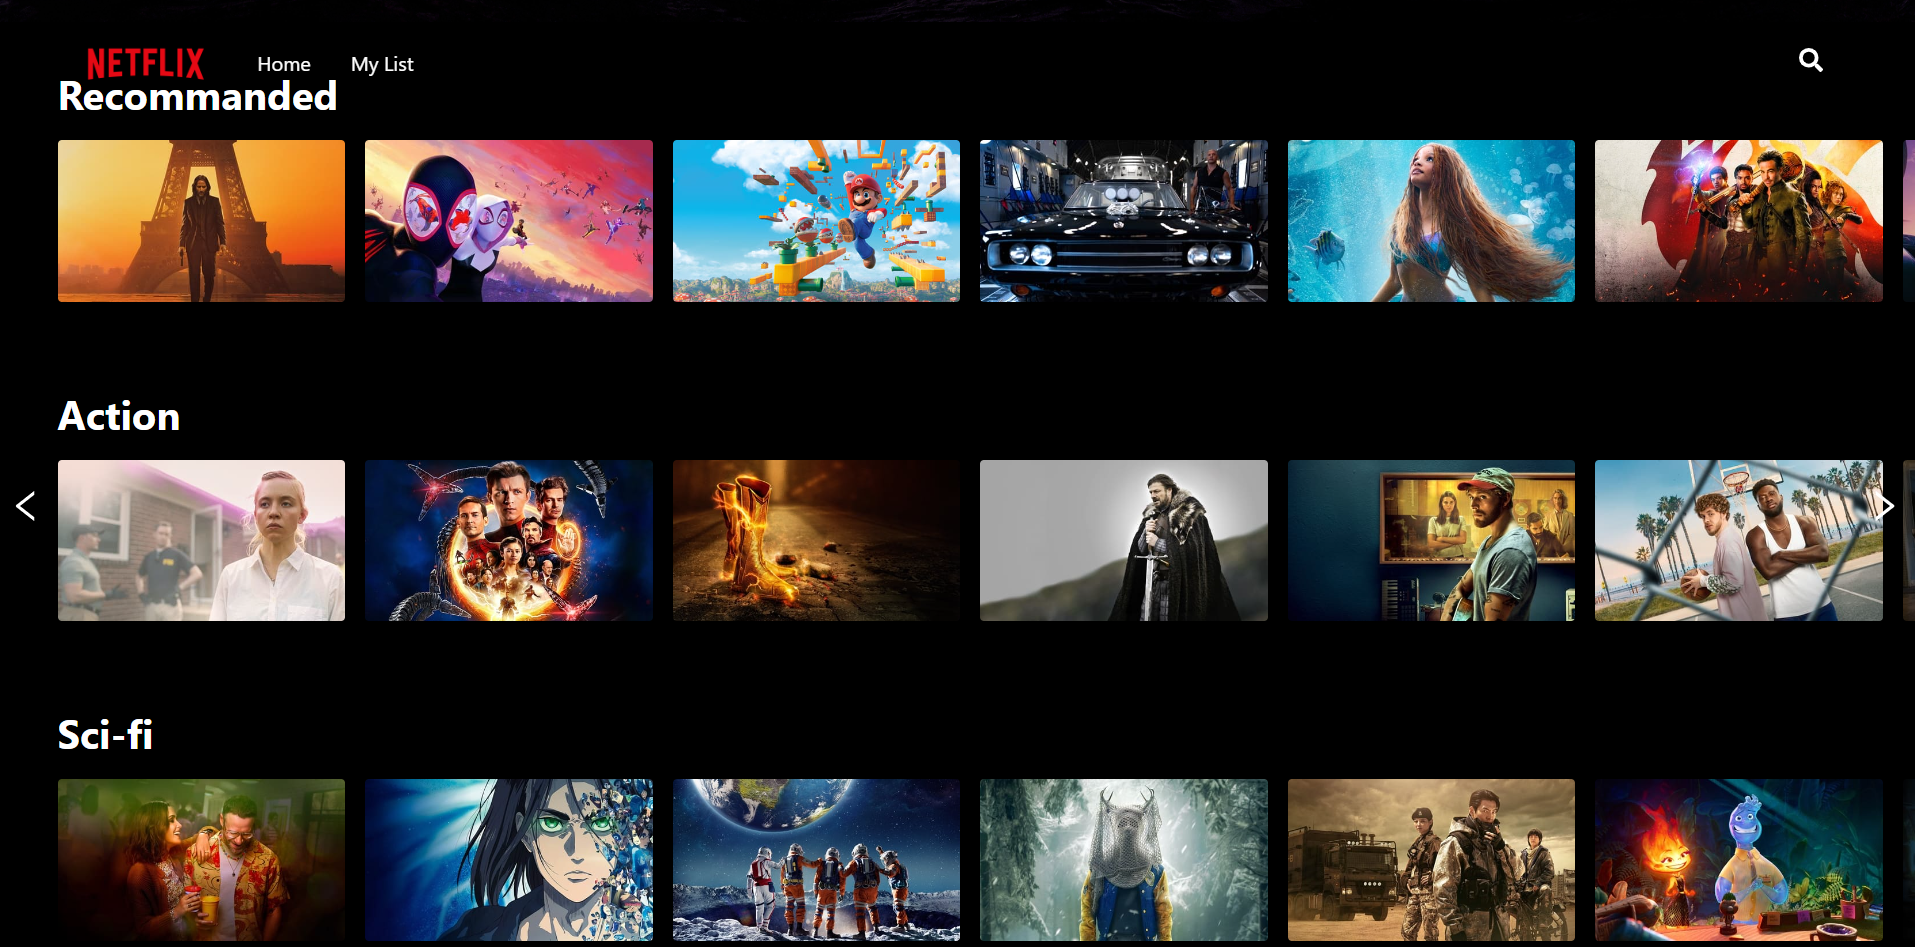
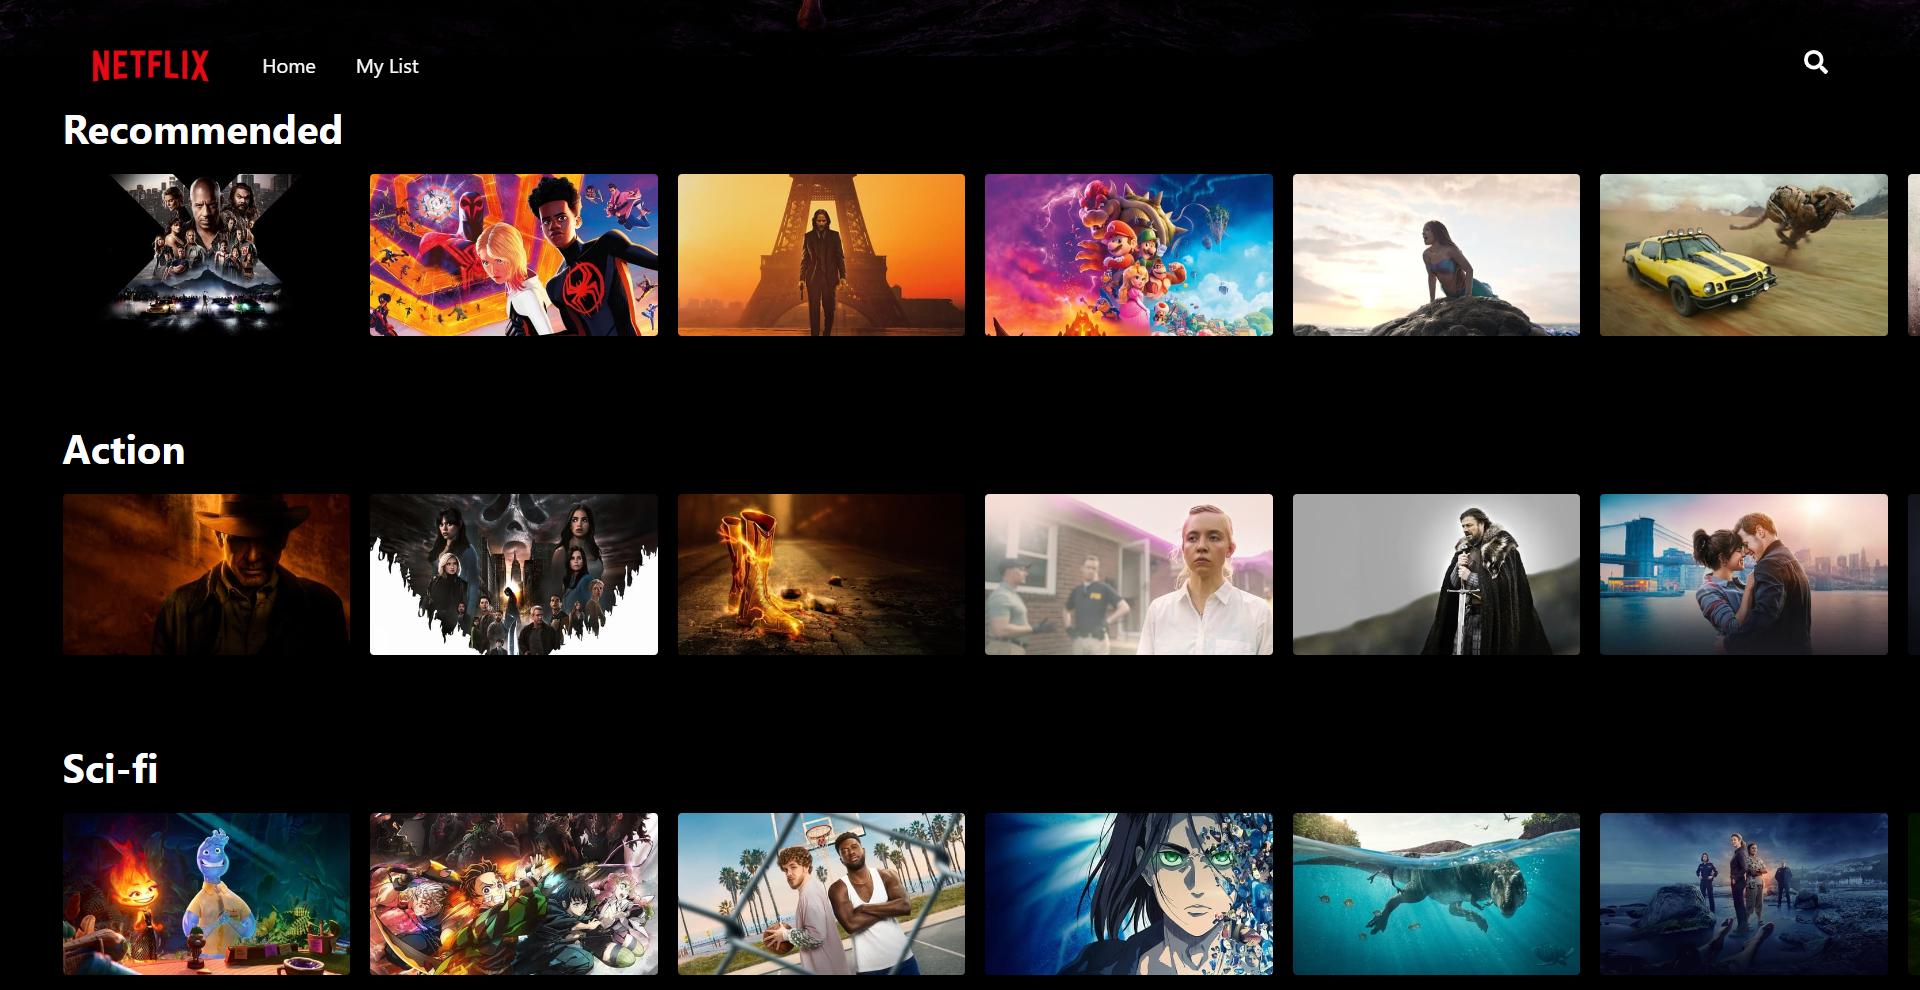
c

diff --git a/netflix-ui/src/components/Slider.jsx b/netflix-ui/src/components/Slider.jsx
@@ -7,7 +7,7 @@ export default function Slider({ movies }) {
   };
   return (
     <Container>
-      <CardSlider data={getMoviesFromRange(0, 10)} title="Recommanded" />
+      <CardSlider data={getMoviesFromRange(0, 10)} title="Recommended" />
       <CardSlider data={getMoviesFromRange(40, 50)} title="Action" />
       <CardSlider data={getMoviesFromRange(50, 60)} title="Sci-fi" />
       <CardSlider data={getMoviesFromRange(20, 30)} title="Comedy" />
